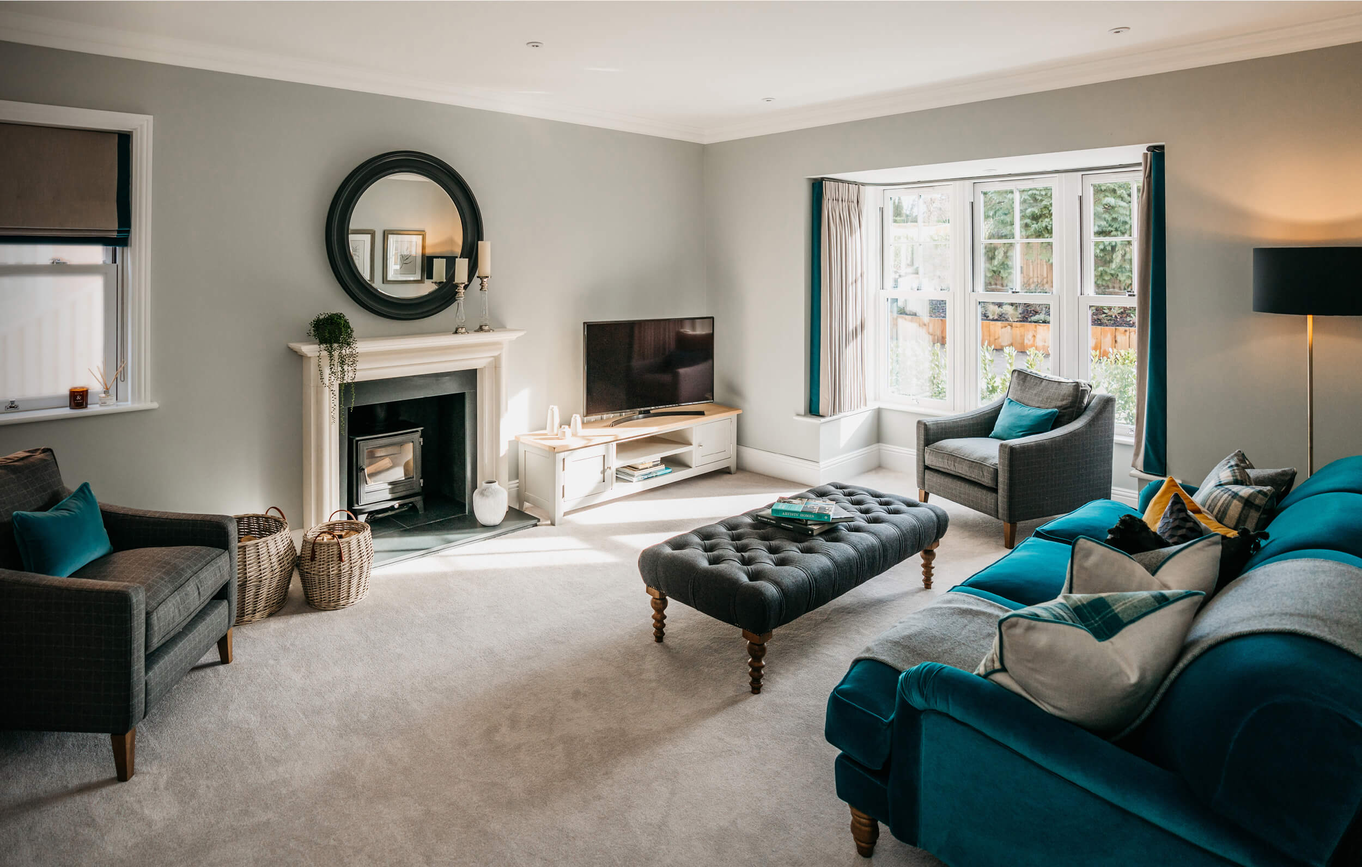
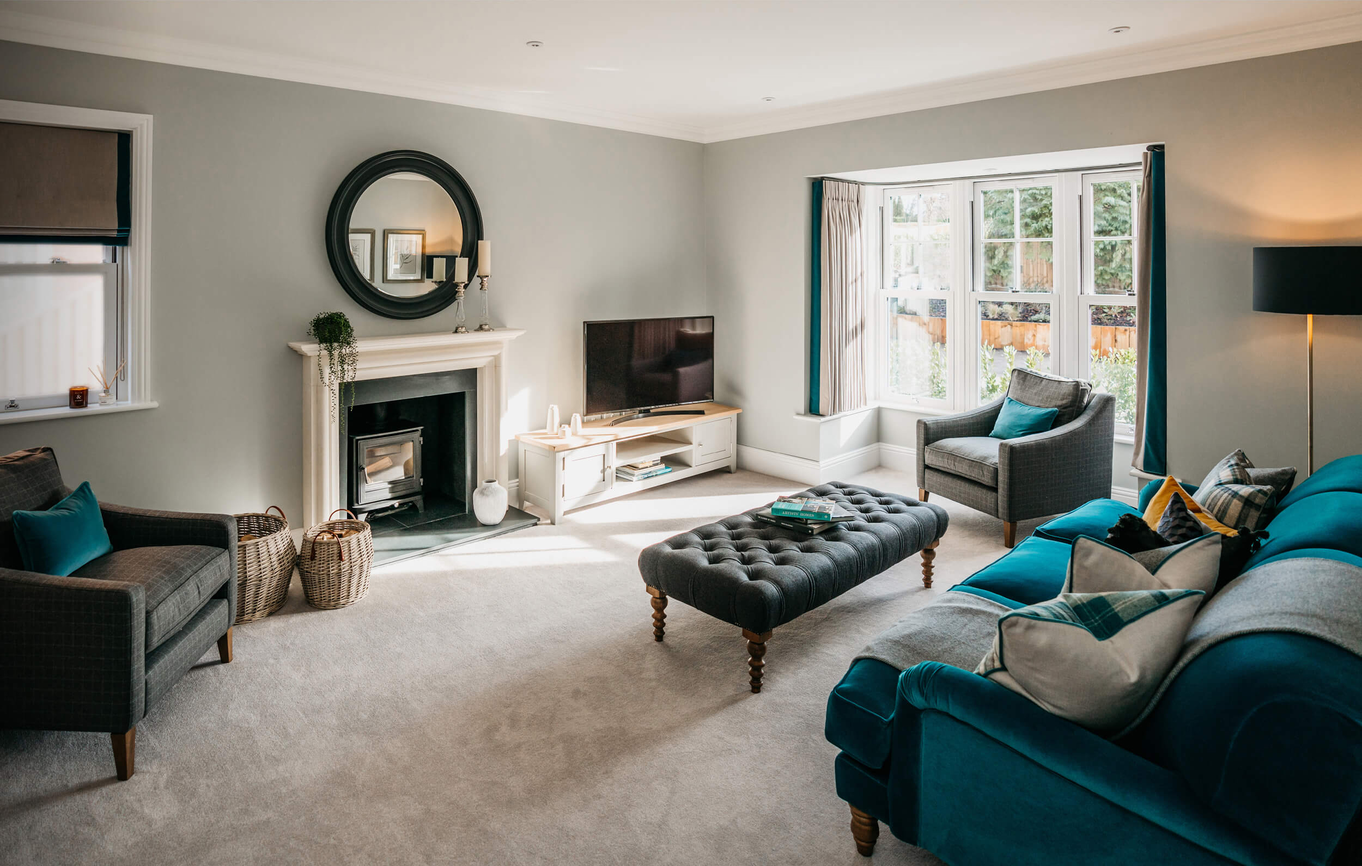
mobile feedback

diff --git a/demo/SWH_updated_HTML/public/index.html b/demo/SWH_updated_HTML/public/index.html
@@ -78,7 +78,8 @@
         
         <div class="pt-page pt-page-1">
           <div class="banner banner-bg--lt">
-            <div class="banner-bg" style="background-image:url('images/redhorne_house.jpg')"></div>
+            <div class="banner-bg hidden_mobile" style="background-image:url('images/redhorne_house.jpg')"></div>
+            <div class="banner-bg hidden_tablet" style="background-image:url('images/Shorewood-Homes_Redthorne-House_HQ-49.jpg')"></div>
           </div>
         </div>
         <div class="pt-page pt-page-2">
@@ -143,7 +144,6 @@
                       village of Sparsholt, a few miles to the west of Winchester. Shorewood Homes designed and built a
                       beautiful extension whilst refurbishing the rest of the house. The house combines a practical layout
                       with a luxury finish, ideal for modern living.</p>
-                    <p class="para text-justify-center">Shorewood Homes dolor sit amet, consectetur adipiscing elit, sed do eiusmod tempor incididunt ut labore et dolore magna aliqua. Uluptate velit esse cillum dolore eu fugiat nulla pariatur.</p>
                     <div class="details-footer buttons">
                       <a href="#" class="button is_150 is_small">find out more</a>
                     </div>

diff --git a/demo/SWH_updated_HTML/public/css/style.css b/demo/SWH_updated_HTML/public/css/style.css
@@ -948,6 +948,10 @@ img { display: inline-block; max-width: 100%; vertical-align: top; }
 
 .banner-bg--rc .banner-bg { background-position: right center; }
 
+@media (min-width: 700px) { .hidden_tablet { display: none; } }
+
+@media (max-width: 700px) { .hidden_mobile { display: none; } }
+
 @media all and (max-width: 700px) { .banner-bg--rc_sm .banner-bg { background-position: right center; } }
 
 .banner-body { position: relative; z-index: 1; width: 100%; height: 100%; display: -webkit-box; display: -ms-flexbox; display: flex; -webkit-box-align: start; -ms-flex-align: start; align-items: flex-start; -webkit-box-pack: center; -ms-flex-pack: center; justify-content: center; -webkit-box-orient: vertical; -webkit-box-direction: normal; -ms-flex-direction: column; flex-direction: column; -ms-flex-wrap: nowrap; flex-wrap: nowrap; }

diff --git a/demo/SWH_updated_HTML/public/css/pt.css b/demo/SWH_updated_HTML/public/css/pt.css
@@ -2532,7 +2532,7 @@ span.p-line {
 }
 
 @media (max-width: 500px){
-   .p-item span.title {
-       visibility: hidden;
+   .home .pagination {
+       display: none;
    }
 }
